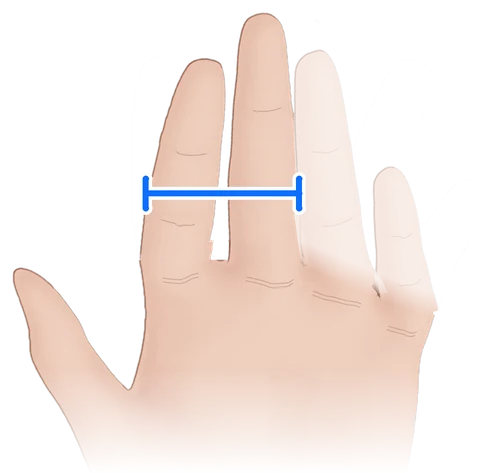
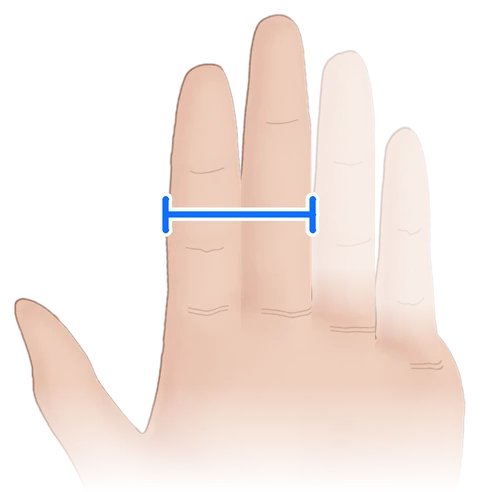
Version 36.2 : mains de mesure refaites (doigts redressés le long de leur axe, proportions réelles)
Claude-Session: https://claude.ai/code/session_01NdXFUFTRUuifak4UyqhvP5

diff --git a/index.html b/index.html
@@ -5111,12 +5111,12 @@ function screenPratiquer(){
 }
 
 // ── Onglet Repères ───────────────────────────────────────────
-// Mesure en cun : la vraie main des planches 3D, doigts serrés (doigts découpés
-// sur la planche et refermés), avec la règle sur le pli de l'articulation du
+// Mesure en cun : la vraie main des planches 3D, doigts serrés (chaque doigt est
+// redressé le long de sa ligne médiane, largeur conservée), avec la règle sur le pli de l'articulation du
 // milieu du majeur, ou en travers du pouce. Suit la silhouette choisie.
 function cunFig(n){
  const sx = S.sex === "f" ? "f" : "m";
- return `<img class="cun-img" src="plates/cun-${sx}-${n}.webp?v=36" alt="" loading="lazy" decoding="async">`;
+ return `<img class="cun-img" src="plates/cun-${sx}-${n}.webp?v=36b" alt="" loading="lazy" decoding="async">`;
 }
 const LEXIQUE = [
  ["Qi","L'énergie vitale qui, selon la tradition, anime le corps et circule dans les méridiens."],
@@ -5173,7 +5173,7 @@ const APP_URL = "https://mrguidolin.github.io/atlas-acupression/";
 // l'iPhone, compare les numéros de version et recharge si besoin. La
 // lecture « reload » remplace aussi la copie en cache : au prochain
 // lancement, l'app s'ouvre directement sur la nouvelle version.
-const APP_VERSION = "36.1";
+const APP_VERSION = "36.2";
 const verCmp = (a, b) => { const x = a.split(".").map(Number), y = b.split(".").map(Number); for (let i = 0; i < Math.max(x.length, y.length); i++){ const d = (x[i] || 0) - (y[i] || 0); if (d) return d; } return 0; };
 async function checkUpdate(btn){
  const st = $(".ver-st"), say = m => { if (st) st.textContent = m; };
